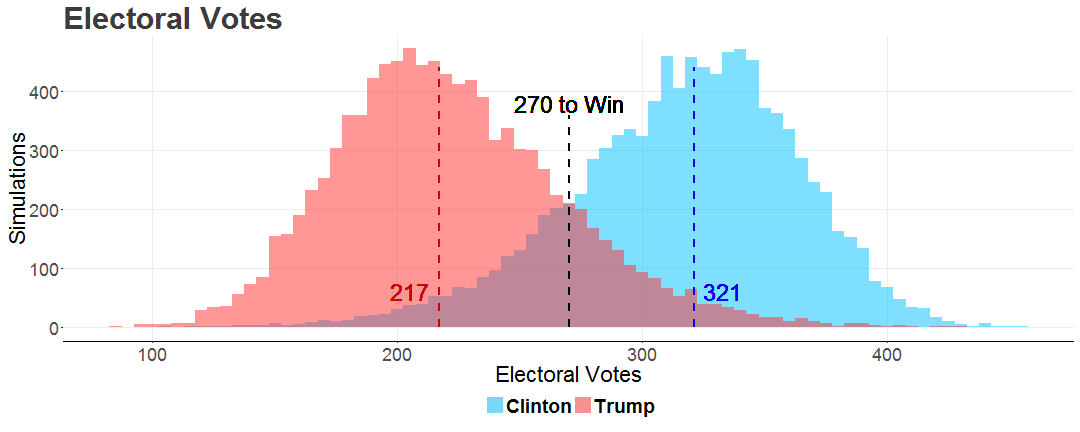
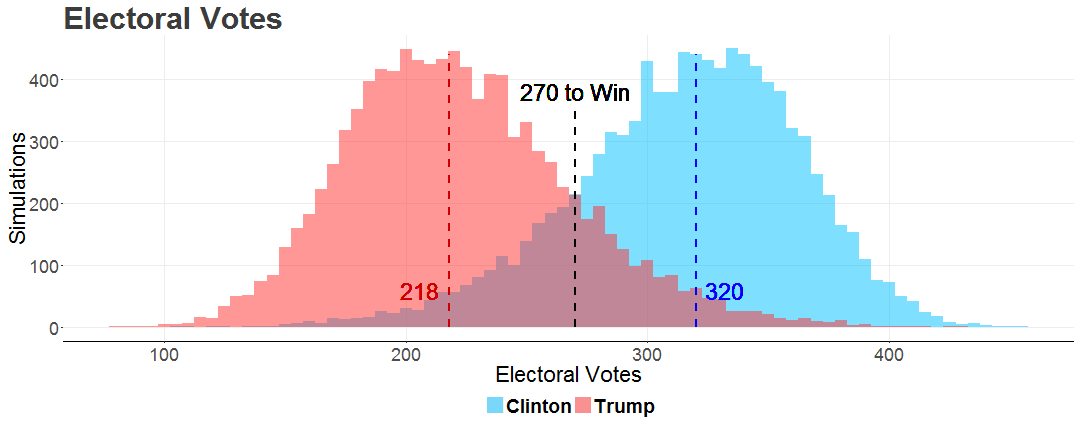
update

diff --git a/index.html b/index.html
@@ -48,6 +48,26 @@ th {
     -moz-box-shadow: -6px 2px 8px -2px #e1e1e1;
     -webkit-box-shadow: -6px 2px 8px -2px #e1e1e1;
 }
+
+table#t1 {
+    border-collapse: collapse;
+    width: 100%;
+}
+
+table#t1 td {
+    text-align: left;
+    padding: 8px;
+    font-size: 18px;
+    border-bottom: 1px solid #2c2c2c;
+}
+table#t1 th {
+    text-align: left;
+    padding: 8px;
+    font-size: 18px;
+    font-weight: normal;
+    border-bottom: 1px solid #ddd;
+}
+
 </style>
 
 <style>
@@ -177,10 +197,11 @@ th {
           <a class="brand" href="#title"><strong>General Election Forecasts 2016</strong> <small>Updated Aug 22</small></a>
           <div class="nav-collapse collapse">
             <ul class="nav pull-right">
-              <li><a href="#overview">National Overview</a></li>
+              <li><a href="#overview">Overview</a></li>
               <li><a href="#map">Map</a></li>
               <li><a href="#statelevel">State Trends</a></li>
               <li><a href="#margins">Margins of Victory</a></li>
+              <li><a href="#scenarios">Scenarios</a></li>
               <li><a href="#currentforecasts">Current Forecasts</a></li>
             </ul>
           </div>
@@ -212,7 +233,7 @@ th {
           <p></p>
           <p></p>
       <div class="container" style="text-align: center;">
-        <h1><div class="alert alert-info" role="alert">Hillary Clinton has an 84.6% chance of being president</div></h1>    
+        <h1><div class="alert alert-info" role="alert">Hillary Clinton has an 84.3% chance of being president</div></h1>    
       </div>
         </div>
           <div style="text-align:right;">
@@ -231,7 +252,7 @@ th {
 
       <div class="row">
         <div class="span12">
-          <p class="lead">Presidential elections are all about who can get to 270 electoral votes. After simulating the election ten-thousand times, the model predicts a <b>321-217</b> electoral win for <b>Hillary Clinton</b>.</p>
+          <p class="lead">Presidential elections are all about who can get to 270 electoral votes. After simulating the election ten-thousand times, the model predicts a <b>320-218</b> electoral win for <b>Hillary Clinton</b>.</p>
         </div>
       </div>
       
@@ -286,6 +307,57 @@ th {
       
       <div class="container" style="text-align: center;">
 <div class="chunk" id="margins"><div class="rimage center"><img src="figure/margins-1.png" title="plot of chunk margins" alt="plot of chunk margins" class="plot" /></div></div>
+      </div>
+      
+      <p></p>
+      <div class="row" id="scenarios">
+        <div class="span12">
+          <center>
+            <h1>Possible Scenarios</h1>
+          </center>
+          <p class="lead">Here are the <b>odds we'll see these election scenarios</b>.</p>
+        </div>
+      </div>
+      <div class="container" style="text-align: center;" class="span3">
+        <table id='t1'>
+          <tr id='t1'>
+            <td id='t1'>Electoral Tie <small>(269-269)</small></td>
+            <td id='t1'>0.5%</td>
+          </tr>
+          <tr id='t1'>
+            <th id='t1'>Clinton victory while losing at least 1 swing state <small>(FL, VA, NC, PA, OH)</small></th>
+            <th id='t1'>63.6%</th>
+          </tr>
+          <tr id='t1'>
+            <td id='t1'>Trump victory while losing at least 1 swing state <small>(FL, VA, NC, PA, OH)</small></td>
+            <td id='t1'>14.7%</td>
+          </tr>
+          <tr id='t1'>
+            <th id='t1'>Clinton wins all 5 swing states</th>
+            <th id='t1'>20.8%</th>
+          </tr>
+          <tr id='t1'>
+            <td id='t1'>Trump wins all 5 swing states</td>
+            <td id='t1'>0.5%</td>
+          </tr>
+          <tr id='t1'>
+            <th id='t1'>Clinton outperforms Obama 2012 <small>(>332 EV)</small></th>
+            <th id='t1'>39%</th>
+          </tr>
+          <tr id='t1'>
+            <td id='t1'>Trump outperforms Romney 2012 <small>(>206 EV)</small></td>
+            <td id='t1'>60.1%</td>
+          </tr>
+          <tr id='t1'>
+            <th id='t1'>Clinton blowout <small>(>380 EV)</small></th>
+            <th id='t1'>6.3%</th>
+          </tr>
+          <tr id='t1'>
+            <td id='t1'>Trump blowout <small>(>380 EV)</small></td>
+            <td id='t1'>0.2%</td>
+          </tr>
+        </table>
+      
       </div>
       
       

diff --git a/website_design/index_test.html b/website_design/index_test.html
@@ -2,32 +2,31 @@
 <html>
 
 <style>
-table {
+
+
+
+
+table#t1 {
     border-collapse: collapse;
     width: 100%;
 }
 
-td {
+table#t1 td {
     text-align: left;
     padding: 8px;
     font-size: 18px;
+    border-bottom: 1px solid #2c2c2c;
 }
-th {
+table #t1 th {
     text-align: left;
     padding: 8px;
-    font-size: 20px;
-}
-
-</style>
-
-<style>
-.republican{
-  background-color:rgba(255,48,48,.4);
-}
-.democrat{
-  background-color:rgba(0, 191, 255,.5);
+    font-size: 18px;
+    font-weight: normal;
+    border-bottom: 1px solid #ddd;
 }
 </style>
+
+
 
   <head>
 <style type="text/css">
@@ -143,7 +142,7 @@ th {
     </div>
 <div class="chunk" id="unnamed-chunk-2"><div class="rcode"><div class="source"><pre class="knitr r"><span class="hl kwd">print</span><span class="hl std">(</span><span class="hl kwd">sample</span><span class="hl std">(</span><span class="hl num">1</span><span class="hl opt">:</span><span class="hl num">10</span><span class="hl std">))</span>
 </pre></div>
-<div class="output"><pre class="knitr r">##  [1] 10  6  9  4  3  1  7  8  2  5
+<div class="output"><pre class="knitr r">##  [1]  2  1  4  8  3  7  6 10  9  5
 </pre></div>
 </div></div>
     
@@ -241,28 +240,42 @@ th {
       <div class="container" style="text-align: center;" class="span3">
         
 
-        <table>
-          <tr>
-            <th>State</th>
-            <th>Electoral Votes</th>
-            <th>Winner</th>
-            <th>Odds of Victory</th>
-            <th>Margin of Victory</th>
+        <table id='t1'>
+          <tr id='t1'>
+            <td id='t1'>Electoral Tie <small>(269-269)</small></td>
+            <td id='t1'>1.7%</td>
           </tr>
-          <tr>
-          <tr>
-            <td>Alabama</td>
-            <td>4</td>
-            <td>Trump</td>
-            <td>96%</td>
-            <td>+31</td>
+          <tr id='t1'>
+            <th id='t1'>Clinton victory while losing at least 1 swing state <small>(FL, VA, NC, PA, OH)</small></th>
+            <th id='t1'>20%</th>
           </tr>
-          <tr>
-            <td>California</td>
-            <td>55</td>
-            <td>Clinton</td>
-            <td>96%</td>
-            <td>+31</td>
+          <tr id='t1'>
+            <td id='t1'>Trump victory while losing at least 1 swing state <small>(FL, VA, NC, PA, OH)</small></td>
+            <td id='t1'>20%</td>
+          </tr>
+          <tr id='t1'>
+            <th id='t1'>Clinton wins all 5 swing states</th>
+            <th id='t1'>20%</th>
+          </tr>
+          <tr id='t1'>
+            <td id='t1'>Trump wins all 5 swing states</td>
+            <td id='t1'>20%</td>
+          </tr>
+          <tr id='t1'>
+            <th id='t1'>Clinton outperforms Obama 2012 <small>(>332 EV)</small></th>
+            <th id='t1'>20%</th>
+          </tr>
+          <tr id='t1'>
+            <td id='t1'>Trump outperforms Romney 2012 <small>(>206 EV)</small></td>
+            <td id='t1'>20%</td>
+          </tr>
+          <tr id='t1'>
+            <th id='t1'>Clinton blowout <small>(>380 EV)</small></th>
+            <th id='t1'>20%</th>
+          </tr>
+          <tr id='t1'>
+            <td id='t1'>Trump blowout <small>(>380 EV)</small></td>
+            <td id='t1'>20%</td>
           </tr>
         </table>
 
